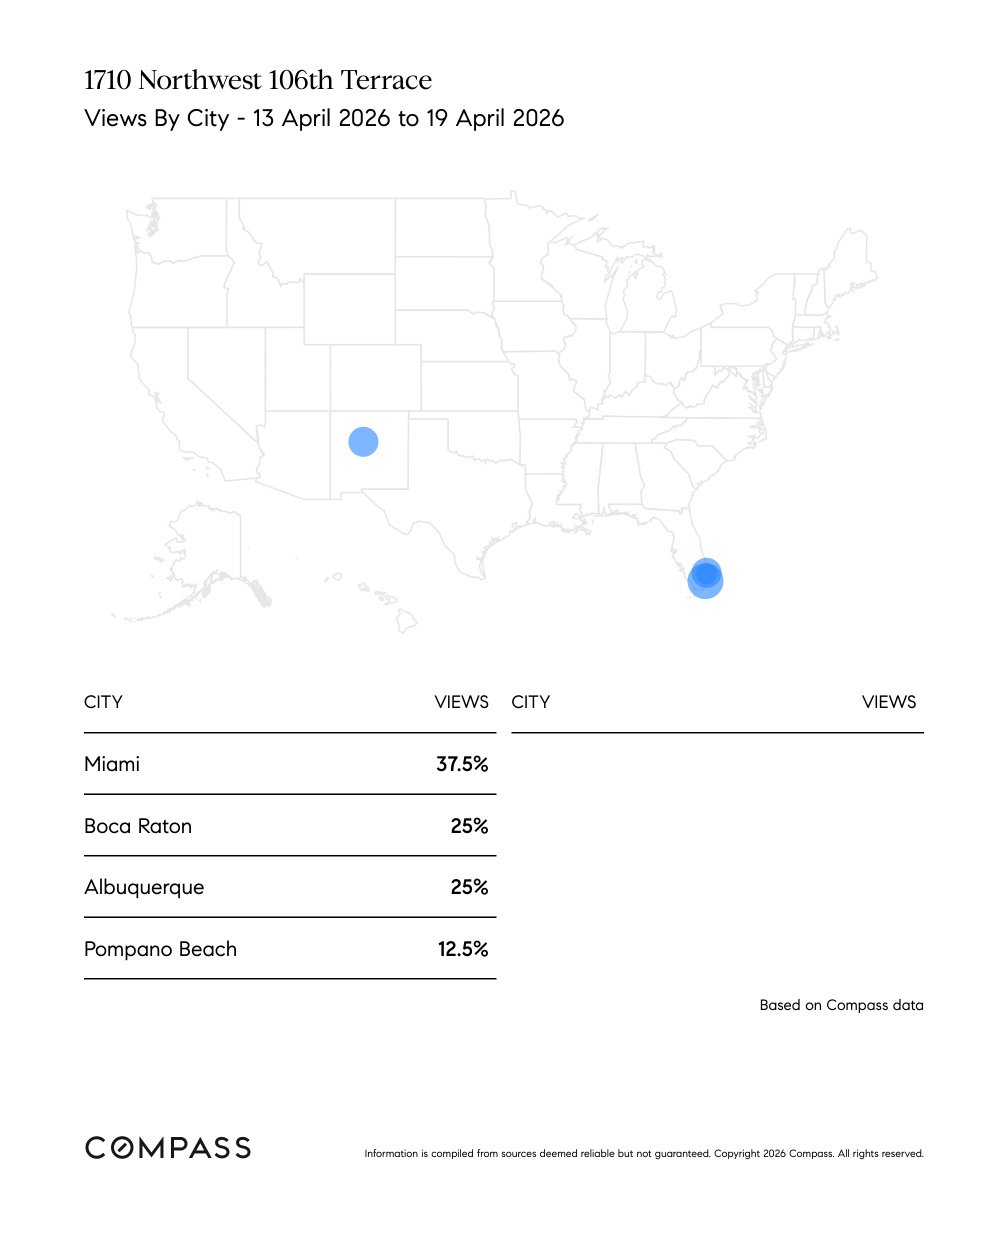
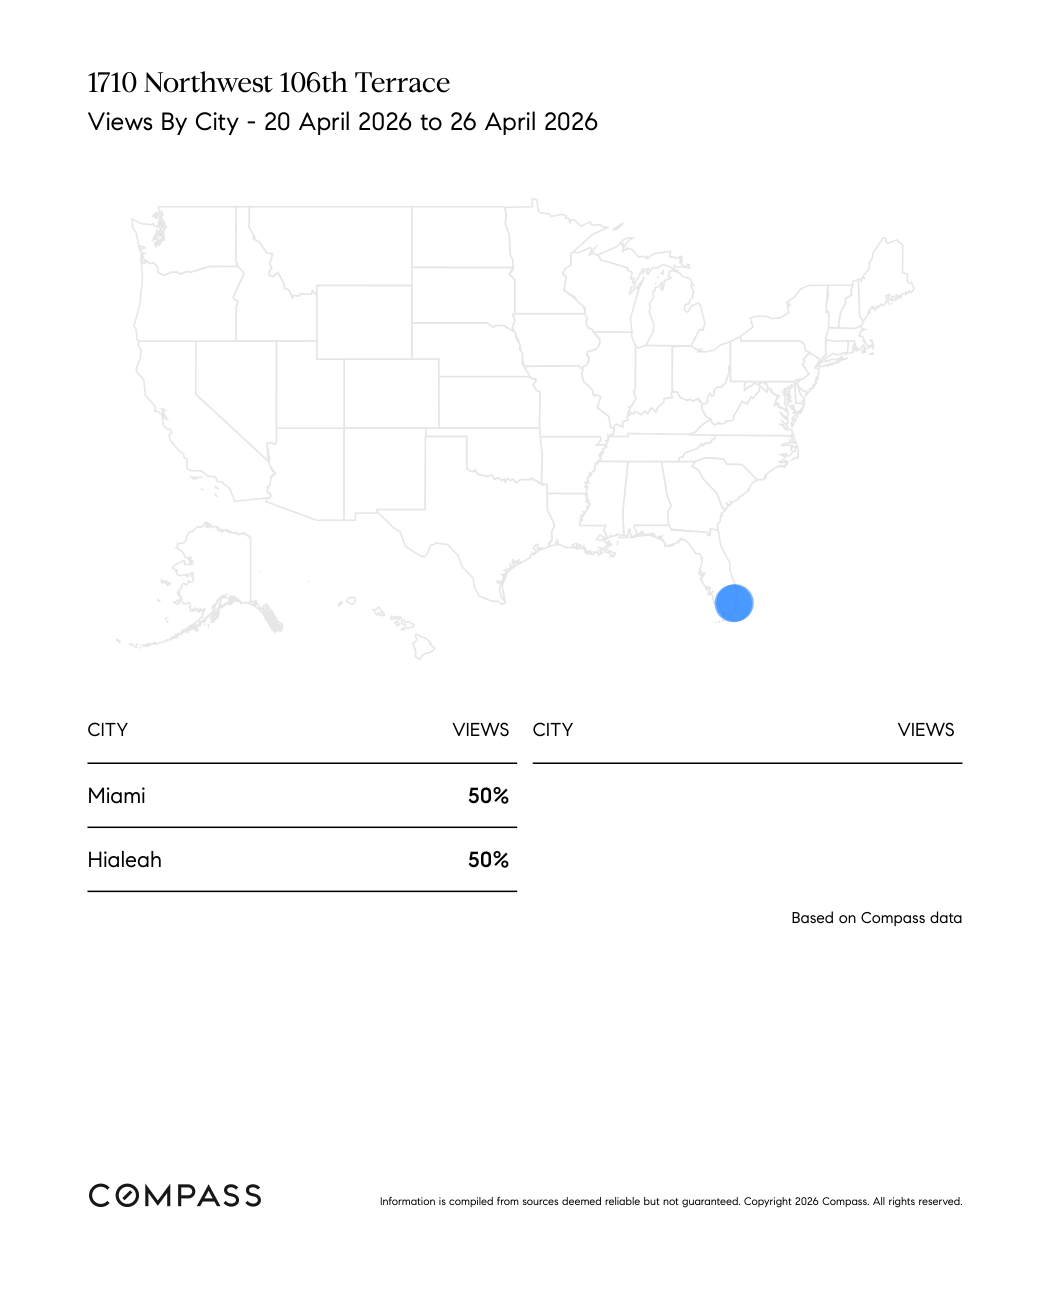
Fix emails and social metrics, update dates and extract new maps

diff --git a/234-washington-ave/index.html b/234-washington-ave/index.html
@@ -434,7 +434,7 @@
                 <div class="meta-item">MLS #A11888151</div>
                 <div class="meta-item">
                     <svg width="16" height="16" viewBox="0 0 24 24" fill="none" stroke="currentColor" stroke-width="2"><rect x="3" y="4" width="18" height="18" rx="2"/><path d="M16 2v4M8 2v4M3 10h18"/></svg>
-                    Report Period: Apr 13 - Apr 19, 2026
+                    Report Period: 20 April 2026 - 26 April 2026
                 </div>
             </div>
         </div>
@@ -499,13 +499,13 @@
                 </div>
                 <div class="table-row">
                     <div class="metric-name">Emails Sent (Opened)</div>
-                    <div class="last-7">+222</div>
-                    <div class="grand-total">107,822</div>
+                    <div class="last-7">+3,267</div>
+                    <div class="grand-total">110,867</div>
                 </div>
                 <div class="table-row">
                     <div class="metric-name">Social Media Views</div>
-                    <div class="last-7">+3,267</div>
-                    <div class="grand-total">32,093</div>
+                    <div class="last-7">+222</div>
+                    <div class="grand-total">29,048</div>
                 </div>
             </div>
         </div>
@@ -582,7 +582,7 @@
             <p>Compass One | (305) 302-6384 | joanna.jimenez@compass.com</p>
         </div>
         <div class="footer-note">
-            Generated on April 20, 2026. Data sourced from Compass Insights & Showing Feedback.
+            Generated on April 27, 2026. Data sourced from Compass Insights & Showing Feedback.
         </div>
     </footer>
 

diff --git a/1710-nw-106-terr/index.html b/1710-nw-106-terr/index.html
@@ -434,7 +434,7 @@
                 <div class="meta-item">MLS #Pending</div>
                 <div class="meta-item">
                     <svg width="16" height="16" viewBox="0 0 24 24" fill="none" stroke="currentColor" stroke-width="2"><rect x="3" y="4" width="18" height="18" rx="2"/><path d="M16 2v4M8 2v4M3 10h18"/></svg>
-                    Report Period: Apr 13 - Apr 19, 2026
+                    Report Period: 20 April 2026 - 26 April 2026
                 </div>
             </div>
         </div>
@@ -499,13 +499,13 @@
                 </div>
                 <div class="table-row">
                     <div class="metric-name">Emails Sent (Opened)</div>
-                    <div class="last-7">+222</div>
-                    <div class="grand-total">23,760</div>
+                    <div class="last-7">+3,267</div>
+                    <div class="grand-total">26,805</div>
                 </div>
                 <div class="table-row">
                     <div class="metric-name">Social Media Views</div>
-                    <div class="last-7">+3,267</div>
-                    <div class="grand-total">4,630</div>
+                    <div class="last-7">+222</div>
+                    <div class="grand-total">1,585</div>
                 </div>
             </div>
         </div>
@@ -554,7 +554,7 @@
             <p>Compass One | (305) 302-6384 | joanna.jimenez@compass.com</p>
         </div>
         <div class="footer-note">
-            Generated on April 20, 2026. Data sourced from Compass Insights & Showing Feedback.
+            Generated on April 27, 2026. Data sourced from Compass Insights & Showing Feedback.
         </div>
     </footer>
 

diff --git a/320-85-st-15/index.html b/320-85-st-15/index.html
@@ -434,7 +434,7 @@
                 <div class="meta-item">MLS #Pending</div>
                 <div class="meta-item">
                     <svg width="16" height="16" viewBox="0 0 24 24" fill="none" stroke="currentColor" stroke-width="2"><rect x="3" y="4" width="18" height="18" rx="2"/><path d="M16 2v4M8 2v4M3 10h18"/></svg>
-                    Report Period: Apr 13 - Apr 19, 2026
+                    Report Period: 20 April 2026 - 26 April 2026
                 </div>
             </div>
         </div>
@@ -499,13 +499,13 @@
                 </div>
                 <div class="table-row">
                     <div class="metric-name">Emails Sent (Opened)</div>
-                    <div class="last-7">+222</div>
-                    <div class="grand-total">30,432</div>
+                    <div class="last-7">+3,267</div>
+                    <div class="grand-total">33,477</div>
                 </div>
                 <div class="table-row">
                     <div class="metric-name">Social Media Views</div>
-                    <div class="last-7">+3,267</div>
-                    <div class="grand-total">4,716</div>
+                    <div class="last-7">+222</div>
+                    <div class="grand-total">1,671</div>
                 </div>
             </div>
         </div>
@@ -554,7 +554,7 @@
             <p>Compass One | (305) 302-6384 | joanna.jimenez@compass.com</p>
         </div>
         <div class="footer-note">
-            Generated on April 20, 2026. Data sourced from Compass Insights & Showing Feedback.
+            Generated on April 27, 2026. Data sourced from Compass Insights & Showing Feedback.
         </div>
     </footer>
 

diff --git a/7334-harding-unit-6/index.html b/7334-harding-unit-6/index.html
@@ -434,7 +434,7 @@
                 <div class="meta-item">MLS #Pending</div>
                 <div class="meta-item">
                     <svg width="16" height="16" viewBox="0 0 24 24" fill="none" stroke="currentColor" stroke-width="2"><rect x="3" y="4" width="18" height="18" rx="2"/><path d="M16 2v4M8 2v4M3 10h18"/></svg>
-                    Report Period: Apr 13 - Apr 19, 2026
+                    Report Period: 20 April 2026 - 26 April 2026
                 </div>
             </div>
         </div>
@@ -499,13 +499,13 @@
                 </div>
                 <div class="table-row">
                     <div class="metric-name">Emails Sent (Opened)</div>
-                    <div class="last-7">+222</div>
-                    <div class="grand-total">66,762</div>
+                    <div class="last-7">+3,267</div>
+                    <div class="grand-total">69,807</div>
                 </div>
                 <div class="table-row">
                     <div class="metric-name">Social Media Views</div>
-                    <div class="last-7">+3,267</div>
-                    <div class="grand-total">6,555</div>
+                    <div class="last-7">+222</div>
+                    <div class="grand-total">3,510</div>
                 </div>
             </div>
         </div>
@@ -554,7 +554,7 @@
             <p>Compass One | (305) 302-6384 | joanna.jimenez@compass.com</p>
         </div>
         <div class="footer-note">
-            Generated on April 20, 2026. Data sourced from Compass Insights & Showing Feedback.
+            Generated on April 27, 2026. Data sourced from Compass Insights & Showing Feedback.
         </div>
     </footer>
 

diff --git a/763-pennsylvania-avenue-unit-116/index.html b/763-pennsylvania-avenue-unit-116/index.html
@@ -434,7 +434,7 @@
                 <div class="meta-item">MLS #Pending</div>
                 <div class="meta-item">
                     <svg width="16" height="16" viewBox="0 0 24 24" fill="none" stroke="currentColor" stroke-width="2"><rect x="3" y="4" width="18" height="18" rx="2"/><path d="M16 2v4M8 2v4M3 10h18"/></svg>
-                    Report Period: Apr 13 - Apr 19, 2026
+                    Report Period: 20 April 2026 - 26 April 2026
                 </div>
             </div>
         </div>
@@ -499,13 +499,13 @@
                 </div>
                 <div class="table-row">
                     <div class="metric-name">Emails Sent (Opened)</div>
-                    <div class="last-7">+222</div>
-                    <div class="grand-total">46,524</div>
+                    <div class="last-7">+3,267</div>
+                    <div class="grand-total">49,569</div>
                 </div>
                 <div class="table-row">
                     <div class="metric-name">Social Media Views</div>
-                    <div class="last-7">+3,267</div>
-                    <div class="grand-total">5,904</div>
+                    <div class="last-7">+222</div>
+                    <div class="grand-total">2,859</div>
                 </div>
             </div>
         </div>
@@ -554,7 +554,7 @@
             <p>Compass One | (305) 302-6384 | joanna.jimenez@compass.com</p>
         </div>
         <div class="footer-note">
-            Generated on April 20, 2026. Data sourced from Compass Insights & Showing Feedback.
+            Generated on April 27, 2026. Data sourced from Compass Insights & Showing Feedback.
         </div>
     </footer>
 

diff --git a/8000-harding-avenue-unit-2b/index.html b/8000-harding-avenue-unit-2b/index.html
@@ -434,7 +434,7 @@
                 <div class="meta-item">MLS #Pending</div>
                 <div class="meta-item">
                     <svg width="16" height="16" viewBox="0 0 24 24" fill="none" stroke="currentColor" stroke-width="2"><rect x="3" y="4" width="18" height="18" rx="2"/><path d="M16 2v4M8 2v4M3 10h18"/></svg>
-                    Report Period: Apr 13 - Apr 19, 2026
+                    Report Period: 20 April 2026 - 26 April 2026
                 </div>
             </div>
         </div>
@@ -499,13 +499,13 @@
                 </div>
                 <div class="table-row">
                     <div class="metric-name">Emails Sent (Opened)</div>
-                    <div class="last-7">+222</div>
-                    <div class="grand-total">20,762</div>
+                    <div class="last-7">+3,267</div>
+                    <div class="grand-total">23,807</div>
                 </div>
                 <div class="table-row">
                     <div class="metric-name">Social Media Views</div>
-                    <div class="last-7">+3,267</div>
-                    <div class="grand-total">4,655</div>
+                    <div class="last-7">+222</div>
+                    <div class="grand-total">1,610</div>
                 </div>
             </div>
         </div>
@@ -554,7 +554,7 @@
             <p>Compass One | (305) 302-6384 | joanna.jimenez@compass.com</p>
         </div>
         <div class="footer-note">
-            Generated on April 20, 2026. Data sourced from Compass Insights & Showing Feedback.
+            Generated on April 27, 2026. Data sourced from Compass Insights & Showing Feedback.
         </div>
     </footer>
 

diff --git a/17301-biscayne-boulevard-unit-1401/index.html b/17301-biscayne-boulevard-unit-1401/index.html
@@ -434,7 +434,7 @@
                 <div class="meta-item">MLS #Pending</div>
                 <div class="meta-item">
                     <svg width="16" height="16" viewBox="0 0 24 24" fill="none" stroke="currentColor" stroke-width="2"><rect x="3" y="4" width="18" height="18" rx="2"/><path d="M16 2v4M8 2v4M3 10h18"/></svg>
-                    Report Period: Apr 13 - Apr 19, 2026
+                    Report Period: 20 April 2026 - 26 April 2026
                 </div>
             </div>
         </div>
@@ -499,8 +499,8 @@
                 </div>
                 <div class="table-row">
                     <div class="metric-name">Emails Sent (Opened)</div>
-                    <div class="last-7">+222</div>
-                    <div class="grand-total">9,760</div>
+                    <div class="last-7">+3,267</div>
+                    <div class="grand-total">12,805</div>
                 </div>
                 <div class="table-row">
                     <div class="metric-name">Social Media Views</div>
@@ -554,7 +554,7 @@
             <p>Compass One | (305) 302-6384 | joanna.jimenez@compass.com</p>
         </div>
         <div class="footer-note">
-            Generated on April 20, 2026. Data sourced from Compass Insights & Showing Feedback.
+            Generated on April 27, 2026. Data sourced from Compass Insights & Showing Feedback.
         </div>
     </footer>
 

diff --git a/6061-collins-avenue-unit-5f/index.html b/6061-collins-avenue-unit-5f/index.html
@@ -434,7 +434,7 @@
                 <div class="meta-item">MLS #Pending</div>
                 <div class="meta-item">
                     <svg width="16" height="16" viewBox="0 0 24 24" fill="none" stroke="currentColor" stroke-width="2"><rect x="3" y="4" width="18" height="18" rx="2"/><path d="M16 2v4M8 2v4M3 10h18"/></svg>
-                    Report Period: Apr 13 - Apr 19, 2026
+                    Report Period: 20 April 2026 - 26 April 2026
                 </div>
             </div>
         </div>
@@ -499,8 +499,8 @@
                 </div>
                 <div class="table-row">
                     <div class="metric-name">Emails Sent (Opened)</div>
-                    <div class="last-7">+222</div>
-                    <div class="grand-total">9,760</div>
+                    <div class="last-7">+3,267</div>
+                    <div class="grand-total">12,805</div>
                 </div>
                 <div class="table-row">
                     <div class="metric-name">Social Media Views</div>
@@ -554,7 +554,7 @@
             <p>Compass One | (305) 302-6384 | joanna.jimenez@compass.com</p>
         </div>
         <div class="footer-note">
-            Generated on April 20, 2026. Data sourced from Compass Insights & Showing Feedback.
+            Generated on April 27, 2026. Data sourced from Compass Insights & Showing Feedback.
         </div>
     </footer>
 

diff --git a/template.html b/template.html
@@ -434,7 +434,7 @@
                 <div class="meta-item">{{MLS_NUMBER}}</div>
                 <div class="meta-item">
                     <svg width="16" height="16" viewBox="0 0 24 24" fill="none" stroke="currentColor" stroke-width="2"><rect x="3" y="4" width="18" height="18" rx="2"/><path d="M16 2v4M8 2v4M3 10h18"/></svg>
-                    Report Period: Apr 13 - Apr 19, 2026
+                    Report Period: 20 April 2026 - 26 April 2026
                 </div>
             </div>
         </div>
@@ -542,7 +542,7 @@
             <p>Compass One | (305) 302-6384 | joanna.jimenez@compass.com</p>
         </div>
         <div class="footer-note">
-            Generated on April 20, 2026. Data sourced from Compass Insights & Showing Feedback.
+            Generated on April 27, 2026. Data sourced from Compass Insights & Showing Feedback.
         </div>
     </footer>
 

diff --git a/build.py b/build.py
@@ -152,8 +152,8 @@ def build():
         html = html.replace('{{LAST_7_ONLINE_TABLE}}', online_7_display)
         html = html.replace('{{LAST_7_SHOWINGS}}', showings_display)
         html = html.replace('{{LAST_7_PHYSICAL_TABLE}}', showings_display)
-        html = html.replace('{{LAST_7_EMAILS_TABLE}}', '222')
-        html = html.replace('{{LAST_7_SOCIAL_TABLE}}', last_7_social_map.get(slug, '3,267'))
+        html = html.replace('{{LAST_7_EMAILS_TABLE}}', '3,267')
+        html = html.replace('{{LAST_7_SOCIAL_TABLE}}', last_7_social_map.get(slug, '222'))
         html = html.replace('{{PROPERTY_SLUG}}', slug)
         html = html.replace('{{MAP_SRC}}', 'property_views_map_clean.png')
 
